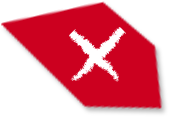
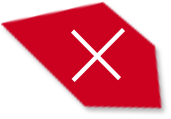
various css changes

Changed region(s): [[0.3801, 0.2269, 0.731, 0.7059]]

diff --git a/app/styles/main.css b/app/styles/main.css
@@ -19,15 +19,16 @@ html, body {
   color: #cc0020;
 }
 .btn {
-  height: 80px;
+  height: 70px;
   width: auto;
   border-radius: 10px; 
-  font-size: 42px;
-  line-height: 75px;
+  font-size: 36px;
+  line-height: 65px;
   color: white;
   text-transform: uppercase;
   outline: none;
   border: none;
+  padding: 0 67px;
   background: #cc001f;
   border-bottom: 7px solid #ab0f15;
   cursor: pointer;
@@ -106,8 +107,7 @@ header {
 }
 header .objectifs {
   float: right;
-  margin: 20px 20px 0 0;
-  padding: 0 20px;
+  margin: 10px 10px 0 0;
   -webkit-transition: all 250ms ease;
   -moz-transition: all 250ms ease;
   -o-transition: all 250ms ease;
@@ -236,17 +236,23 @@ main {
 }
 .popup .close {
   position: absolute;
-  top: -40px;
-  right: -50px;
+  top: -72px;
+  right: -140px;
   display: block;
   height: 119px;
   width: 171px;
   cursor: pointer;
   z-index: 10;
-  background-image: url('/assets/images/popup_close.png');
+  background-image: url('/assets/images/popup_close_sprite.png');
   background-repeat: no-repeat;
   background-size: cover;
-  background-position: center center;
+  background-position: 100% 0;
+  -webkit-tap-highlight-color: rgba(0,0,0,0);
+  -webkit-touch-callout: none;
+}
+.popup .close.onclick {
+  opacity: 1;
+  background-position: 0% 0%;
 }
 
 /* =====================
@@ -298,5 +304,6 @@ footer .lang span.active {
   display: inline-block;
 }
 footer .logos {
+  margin-right: 30px;
   float: right;
 }

diff --git a/app/scripts/app.js b/app/scripts/app.js
@@ -25,21 +25,6 @@ var App = (function(my, Config){
     });
 	};
 
-  my.generateVideos = function(){
-    VideoDatas.forEach(function(element, index){
-      if(element.hide){
-        return;
-      }
-      $('<li/>',{
-        id: 'video'+index,
-        class: 'mini-video',
-        'data-url': Config.videoPath+element.file,
-        'data-type': element.type,
-        'data-name': element.name,
-        text: element.name
-      }).appendTo('.video-list');
-    });
-  };
   my.generateVideoPlayer = function(videoUrl, $videoHolder){
     if(my.player !== undefined){
       if(window.location.origin+videoUrl === my.player.currentSrc){
@@ -101,7 +86,7 @@ var App = (function(my, Config){
     });
 
     // Add onclick animations
-    $(document).on('touchstart mousedown', '.js-objectives, .lang-select, .map-holder p', function(){
+    $(document).on('touchstart mousedown', '.js-objectives, .lang-select, .map-holder p, .close', function(){
       $(this).addClass('onclick');
     })
     $(document).on('touchend touchcancel mouseup', '.onclick',function(event){
@@ -111,7 +96,6 @@ var App = (function(my, Config){
 
 	my.init = function(){
     console.log('App init');
-    // my.generateVideos();
     my.initVideoPlay();
 		my.translationInit();
     my.initBtnGlobalEvents();
